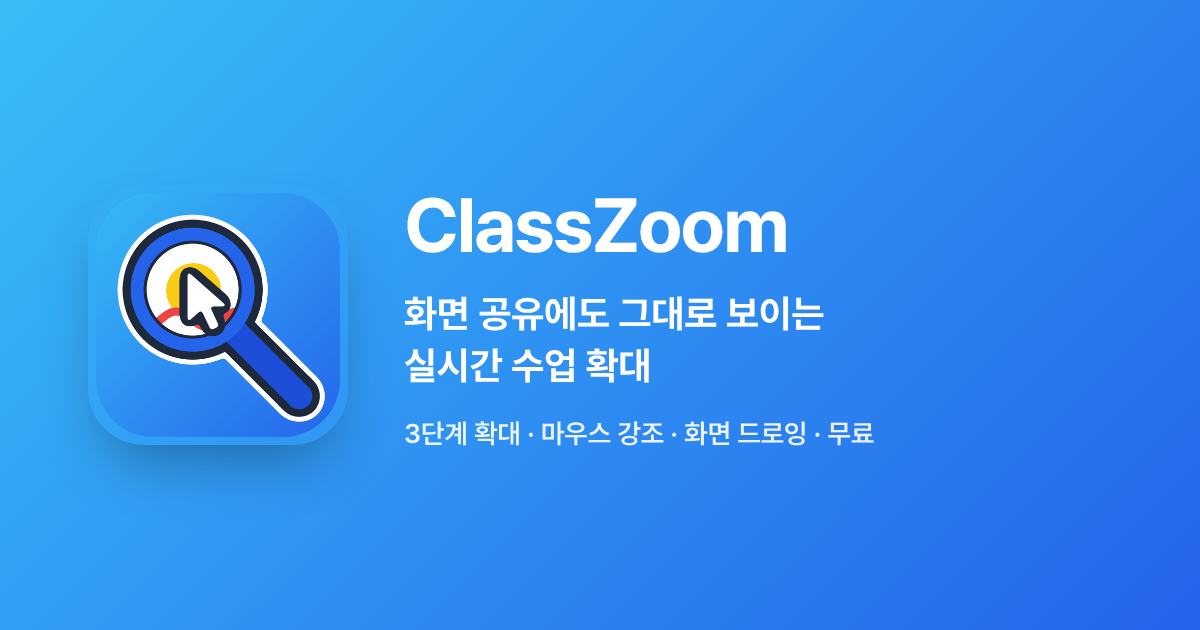
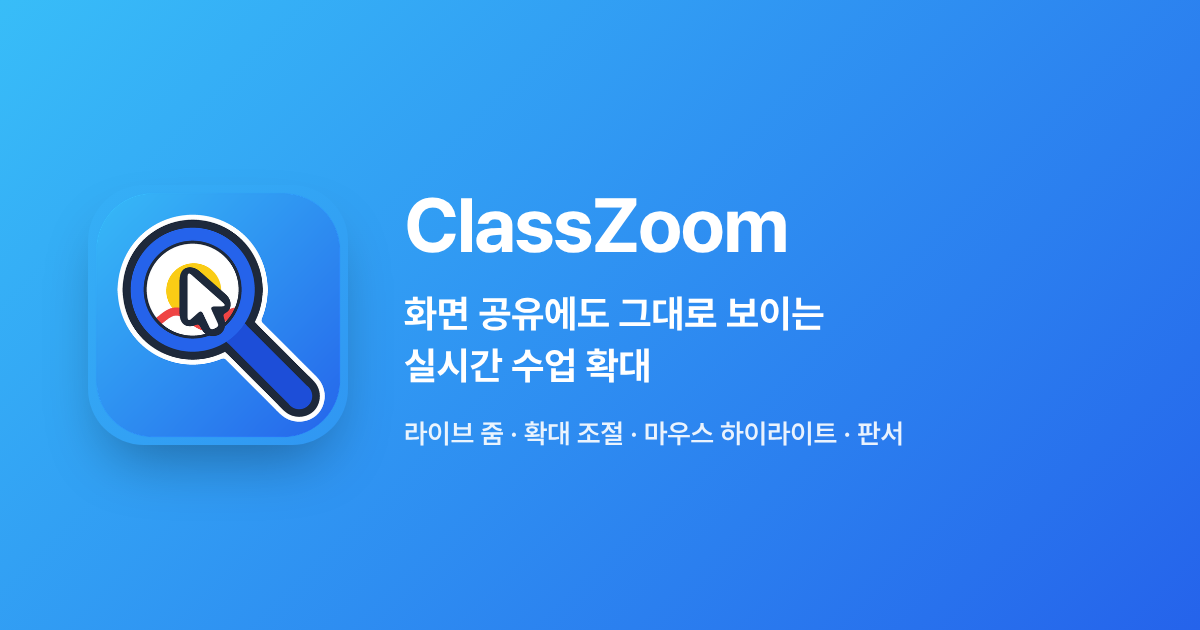
Refresh landing page copy around classroom, lecture and recording use
Present the features as live zoom, zoom level control, mouse highlight
and 판서, add a use-case section, polish the Korean copy and record
the copy rules in CLAUDE.md.

Claude-Session: https://claude.ai/code/session_01A7oqvKdSjdYe6hdTFPD8rC

Changed region(s): [[0.3392, 0.6635, 0.7708, 0.7238]]

diff --git a/site/index.html b/site/index.html
@@ -4,13 +4,13 @@
 <meta charset="utf-8">
 <meta name="viewport" content="width=device-width, initial-scale=1">
 <title>ClassZoom — 화면 공유에도 그대로 보이는 실시간 수업 확대</title>
-<meta name="description" content="수업용 실시간 화면 확대 · 마우스 강조 · 화면 드로잉. Zoom·Google Meet 공유와 녹화에도 확대 화면이 그대로, 커서는 하나만. Windows용 무료 프로그램.">
+<meta name="description" content="전자칠판 수업, 강의, 화면 녹화에 쓰는 라이브 줌 도구. 화면 확대 조절, 마우스 하이라이트, 판서까지 위젯 하나로. Windows용 무료 프로그램.">
 <meta name="theme-color" content="#2563EB">
 <link rel="icon" type="image/png" sizes="32x32" href="/assets/favicon-32.png">
 <link rel="apple-touch-icon" href="/assets/apple-touch-icon.png">
 <meta property="og:type" content="website">
 <meta property="og:title" content="ClassZoom — 화면 공유에도 그대로 보이는 실시간 수업 확대">
-<meta property="og:description" content="실시간 3단계 확대 · 마우스 강조 · 화면 드로잉. 공유와 녹화에도 커서는 하나만. Windows용 무료.">
+<meta property="og:description" content="전자칠판 수업, 강의, 화면 녹화에 쓰는 라이브 줌 · 화면 확대 조절 · 마우스 하이라이트 · 판서. Windows용 무료.">
 <meta property="og:image" content="/assets/og.png">
 <meta name="twitter:card" content="summary_large_image">
 <link rel="preconnect" href="https://cdn.jsdelivr.net" crossorigin>
@@ -103,18 +103,13 @@
   }
   @media (max-width: 560px) { .cta .btn { width: 100%; justify-content: center; } }
 
-  /* ---------- 문제 / 해결 ---------- */
-  .compare { display: grid; grid-template-columns: 1fr 1fr; gap: 24px; margin-top: 40px; }
-  .card { border: 1px solid var(--line); border-radius: var(--radius); padding: 28px; background: #fff; }
-  .card h3 { font-size: 20px; margin-bottom: 12px; display: flex; align-items: center; gap: 8px; }
-  .card ul { list-style: none; display: grid; gap: 10px; color: var(--ink-2); }
-  .card li { padding-left: 26px; position: relative; }
-  .bad li::before { content: "✕"; position: absolute; left: 0; color: var(--red); font-weight: 800; }
-  .good { border-color: #93C5FD; background: var(--sky-l); }
-  .good li::before { content: "✓"; position: absolute; left: 0; color: var(--blue); font-weight: 800; }
-  .tag { font-size: 13px; padding: 3px 10px; border-radius: 999px; background: #FEE2E2; color: #B91C1C; }
-  .good .tag { background: #DBEAFE; color: var(--blue-d); }
-  @media (max-width: 760px) { .compare { grid-template-columns: 1fr; } }
+  /* ---------- 이럴 때 씁니다 ---------- */
+  .uses { display: grid; grid-template-columns: repeat(3, 1fr); gap: 20px; margin-top: 40px; }
+  .use { border: 1px solid var(--line); border-radius: var(--radius); padding: 28px 26px; background: linear-gradient(180deg, var(--sky-l), #fff 60%); }
+  .use .num { display: inline-block; font-weight: 800; color: var(--blue); font-size: 15px; letter-spacing: .04em; }
+  .use h3 { font-size: 21px; margin: 8px 0 10px; }
+  .use p { color: var(--ink-2); }
+  @media (max-width: 860px) { .uses { grid-template-columns: 1fr; } }
 
   /* ---------- 기능 ---------- */
   .features { background: var(--bg); }
@@ -193,7 +188,7 @@
       <div>
         <p class="eyebrow">수업용 실시간 화면 확대 도구</p>
         <h1>화면 공유에도 <em>그대로 보이는</em><br>실시간 확대</h1>
-        <p class="sub">F7 한 번이면 지금 화면이 크게. 영상도 그대로 움직이고, Zoom·Google Meet 공유와 녹화에도 확대 화면이 보이며 <b>커서는 하나만</b> 나옵니다.</p>
+        <p class="sub">F7을 누르면 지금 보는 화면이 바로 커집니다. 영상도 멈추지 않고 움직입니다. Zoom·Google Meet로 공유하거나 녹화할 때도 확대한 화면이 그대로 담깁니다.</p>
         <div class="cta">
           <a class="btn btn-primary js-download" href="https://github.com/codersongpro/mouse/releases/latest">
             <svg viewBox="0 0 24 24" fill="none" stroke="currentColor" stroke-width="2.4" stroke-linecap="round" stroke-linejoin="round" aria-hidden="true"><path d="M12 3v12m0 0l-5-5m5 5l5-5M4 20h16"/></svg>
@@ -203,10 +198,12 @@
         </div>
         <p class="meta"><span class="js-version">최신 버전</span> · Windows 10 / 11 · 설치 없이 바로 실행</p>
         <div class="chips">
-          <span class="chip"><b>3단계</b> 실시간 확대</span>
-          <span class="chip">마우스 강조</span>
-          <span class="chip">화면 드로잉</span>
-          <span class="chip">전자칠판 터치</span>
+          <span class="chip"><b>라이브 줌</b></span>
+          <span class="chip">화면 확대 조절</span>
+          <span class="chip">마우스 하이라이트</span>
+          <span class="chip">판서</span>
+          <span class="chip">전자칠판 수업</span>
+          <span class="chip">강의 · 화면 녹화</span>
         </div>
       </div>
 
@@ -242,31 +239,27 @@
     </div>
   </section>
 
-  <!-- 문제 / 해결 -->
+  <!-- 이럴 때 씁니다 -->
   <section>
     <div class="wrap">
-      <p class="eyebrow">왜 ClassZoom인가요</p>
-      <h2>확대해서 녹화했더니<br>마우스가 두 개로 보인 적 있나요?</h2>
-      <p class="lead">일반 확대 도구는 화면 전체를 시스템에서 키우기 때문에, 녹화·공유 프로그램이 확대된 커서와 실제 커서를 함께 찍습니다. ClassZoom은 확대 화면을 하나의 창으로 그려서 이 문제가 없습니다.</p>
-      <div class="compare">
-        <div class="card bad">
-          <h3>일반 확대 도구 <span class="tag">기존</span></h3>
-          <ul>
-            <li>녹화·공유 화면에 커서가 두 개</li>
-            <li>캡처한 정지 화면이라 영상이 멈춤</li>
-            <li>확대하면 공유 화면에는 안 보이는 경우</li>
-            <li>확대·드로잉·강조 도구를 따로 실행</li>
-          </ul>
-        </div>
-        <div class="card good">
-          <h3>ClassZoom <span class="tag">해결</span></h3>
-          <ul>
-            <li>녹화·공유에도 커서는 하나만</li>
-            <li>실시간 확대 — 영상·애니메이션도 그대로</li>
-            <li>Zoom·Meet 화면 공유에 확대 화면이 그대로</li>
-            <li>확대·드로잉·강조를 위젯 하나로</li>
-          </ul>
-        </div>
+      <p class="eyebrow">이럴 때 씁니다</p>
+      <h2>교실에서도, 온라인에서도,<br>녹화할 때도</h2>
+      <div class="uses">
+        <article class="use">
+          <span class="num">01</span>
+          <h3>전자칠판으로 수업할 때</h3>
+          <p>교과서 그림이나 작은 글씨를 뒷자리까지 보이게 키우고 손가락이나 터치펜으로 그 위에 바로 씁니다. 칠판 제조사와 상관없이 PC에서 똑같이 동작합니다.</p>
+        </article>
+        <article class="use">
+          <span class="num">02</span>
+          <h3>강의할 때</h3>
+          <p>Zoom·Google Meet로 화면을 공유하는 중에 확대하면 참여자도 확대한 화면을 봅니다. 설명하는 곳은 마우스 하이라이트로 짚어 줍니다.</p>
+        </article>
+        <article class="use">
+          <span class="num">03</span>
+          <h3>화면을 녹화할 때</h3>
+          <p>확대한 장면이 녹화 영상에 담기니 나중에 편집으로 키울 필요가 없습니다. 영상 강의나 사용법 안내 영상을 만들 때 편합니다.</p>
+        </article>
       </div>
     </div>
   </section>
@@ -279,27 +272,27 @@
       <div class="grid4">
         <article class="feat">
           <div class="ico"><img src="/assets/zoom.png" alt=""></div>
-          <h3>실시간 3단계 확대</h3>
+          <h3>라이브 줌</h3>
           <div class="key"><kbd>F7</kbd></div>
-          <p>누를 때마다 150% → 200% → 300% → 끄기. 화면은 고정되고 커서만 움직여 흔들림이 없습니다.</p>
-        </article>
-        <article class="feat">
-          <div class="ico"><img src="/assets/spotlight.png" alt=""></div>
-          <h3>마우스 강조</h3>
-          <div class="key"><kbd>F8</kbd></div>
-          <p>커서 주위를 노란 원으로 강조하고, 클릭하면 원이 오므라들어 학생 눈이 따라옵니다.</p>
-        </article>
-        <article class="feat">
-          <div class="ico"><img src="/assets/draw.png" alt=""></div>
-          <h3>화면 드로잉</h3>
-          <div class="key"><kbd>F9</kbd></div>
-          <p>자유선·사각형·원·화살표·레이저 펜. 확대한 화면 위에도 그대로 그립니다.</p>
+          <p>지금 보는 화면을 실시간으로 확대합니다. 영상도 멈추지 않으며 확대한 화면은 고정된 채 커서만 움직여서 흔들리지 않습니다.</p>
         </article>
         <article class="feat">
           <div class="ico"><img src="/assets/settings.png" alt=""></div>
-          <h3>내 수업에 맞게</h3>
-          <div class="key"><kbd>설정</kbd></div>
-          <p>단계별 배율, 펜 색과 굵기, 칠판 색, 단축키를 바꿀 수 있습니다. 전자칠판 터치도 됩니다.</p>
+          <h3>화면 확대 조절</h3>
+          <div class="key"><kbd>F7</kbd> <kbd>Ctrl</kbd> + 휠</div>
+          <p>누를 때마다 150% → 200% → 300% 세 단계로 커지고 휠로 단계를 오르내립니다. 단계별 배율은 설정에서 고릅니다.</p>
+        </article>
+        <article class="feat">
+          <div class="ico"><img src="/assets/spotlight.png" alt=""></div>
+          <h3>마우스 하이라이트</h3>
+          <div class="key"><kbd>F8</kbd></div>
+          <p>커서 주위를 노란 원으로 밝히고 클릭하면 원이 오므라들어서 학생들의 눈이 따라옵니다.</p>
+        </article>
+        <article class="feat">
+          <div class="ico"><img src="/assets/draw.png" alt=""></div>
+          <h3>판서</h3>
+          <div class="key"><kbd>F9</kbd></div>
+          <p>자유선·사각형·원·화살표·레이저 펜으로 화면 위에 씁니다. 확대한 화면 위에도 판서할 수 있고 전자칠판 터치도 됩니다.</p>
         </article>
       </div>
     </div>
@@ -310,16 +303,16 @@
     <div class="wrap">
       <p class="eyebrow">단축키</p>
       <h2>외울 건 세 개면 충분합니다</h2>
-      <p class="lead">처음 실행하면 사용 방법 창이 떠서 알려 드립니다. 키는 설정에서 바꿀 수 있습니다.</p>
+      <p class="lead">처음 실행하면 사용 방법 창이 떠서 알려 드립니다. 키는 설정에서 바꿔 쓰면 됩니다.</p>
       <div class="keys">
-        <div class="row"><div><kbd>F7</kbd></div><div class="desc">화면 확대 — 1단계 → 2단계 → 3단계 → 끄기</div></div>
-        <div class="row"><div><kbd>Ctrl</kbd> + 마우스 휠</div><div class="desc">확대 중 단계 올리기 · 내리기</div></div>
-        <div class="row"><div><kbd>Esc</kbd></div><div class="desc">확대 끄기 (그리는 중이면 지우고 그리기 끄기)</div></div>
-        <div class="row"><div><kbd>F8</kbd></div><div class="desc">마우스 강조 켜기 · 끄기</div></div>
-        <div class="row"><div><kbd>F9</kbd></div><div class="desc">화면에 그리기 켜기 · 끄기</div></div>
-        <div class="row"><div><kbd>Shift</kbd> / <kbd>Ctrl</kbd> + 드래그</div><div class="desc">사각형 / 원 그리기</div></div>
+        <div class="row"><div><kbd>F7</kbd></div><div class="desc">라이브 줌 (1단계 → 2단계 → 3단계 → 끄기)</div></div>
+        <div class="row"><div><kbd>Ctrl</kbd> + 마우스 휠</div><div class="desc">화면 확대 단계 올리기 · 내리기</div></div>
+        <div class="row"><div><kbd>Esc</kbd></div><div class="desc">확대 끄기 (판서 중이면 지우고 판서 끄기)</div></div>
+        <div class="row"><div><kbd>F8</kbd></div><div class="desc">마우스 하이라이트 켜기 · 끄기</div></div>
+        <div class="row"><div><kbd>F9</kbd></div><div class="desc">판서 켜기 · 끄기</div></div>
+        <div class="row"><div><kbd>Shift</kbd> / <kbd>Ctrl</kbd> + 드래그</div><div class="desc">사각형 / 원</div></div>
         <div class="row"><div><kbd>1</kbd> ~ <kbd>9</kbd></div><div class="desc">펜 색 바꾸기</div></div>
-        <div class="row"><div><kbd>Ctrl</kbd> + <kbd>Z</kbd></div><div class="desc">방금 그린 것 되돌리기</div></div>
+        <div class="row"><div><kbd>Ctrl</kbd> + <kbd>Z</kbd></div><div class="desc">방금 쓴 판서 되돌리기</div></div>
       </div>
     </div>
   </section>
@@ -343,12 +336,12 @@
     <div class="wrap">
       <p class="eyebrow">자주 묻는 질문</p>
       <h2>궁금한 점</h2>
-      <details><summary>무료인가요?</summary><p>네, 무료입니다. MIT 라이선스로 배포하며 학교·개인 누구나 쓸 수 있습니다.</p></details>
+      <details><summary>무료인가요?</summary><p>네, 무료입니다. MIT 라이선스로 배포하고 학교에서도 개인도 자유롭게 씁니다.</p></details>
       <details><summary>따로 설치해야 하는 프로그램이 있나요?</summary><p>없습니다. 압축을 풀고 classzoom.exe만 실행하면 됩니다. 관리자 권한도 필요 없습니다.</p></details>
       <details><summary>Zoom이나 Google Meet에서 확대 화면이 안 보여요.</summary><p>공유할 때 특정 ‘창’이 아니라 <b>‘화면 전체’(모니터)</b>를 고르세요. 모니터가 두 대라면 공유 중인 모니터에서 확대를 켜면 됩니다.</p></details>
       <details><summary>맥(Mac)에서도 되나요?</summary><p>지금은 Windows 10 / 11 전용입니다.</p></details>
       <details><summary>개인정보를 수집하나요?</summary><p>수집하지 않습니다. 인터넷은 설정 창을 열 때 새 버전이 있는지 확인하는 데에만 씁니다(버전 파일 1개 읽기).</p></details>
-      <details><summary>넷플릭스 같은 영상이 확대 화면에서 검게 보여요.</summary><p>복사 방지(DRM)가 걸린 영상은 Windows가 확대를 막아 검게 보일 수 있습니다. 일반 영상·유튜브는 그대로 확대됩니다.</p></details>
+      <details><summary>넷플릭스 같은 영상이 확대 화면에서 검게 보여요.</summary><p>복사 방지(DRM)가 걸린 영상은 Windows가 확대를 막아 검게 보일 수 있습니다. 일반 영상과 유튜브는 문제없이 확대됩니다.</p></details>
     </div>
   </section>
 
@@ -356,7 +349,7 @@
   <section class="final">
     <div class="wrap">
       <h2>다음 수업부터 바로 써 보세요</h2>
-      <p class="lead">화면 공유 수업, 녹화 강의, 전자칠판 수업 어디서나.</p>
+      <p class="lead">전자칠판 수업, 강의, 화면 녹화 어디서나 씁니다.</p>
       <div class="cta">
         <a class="btn btn-primary js-download" href="https://github.com/codersongpro/mouse/releases/latest">
           <svg viewBox="0 0 24 24" fill="none" stroke="currentColor" stroke-width="2.4" stroke-linecap="round" stroke-linejoin="round" aria-hidden="true"><path d="M12 3v12m0 0l-5-5m5 5l5-5M4 20h16"/></svg>
@@ -380,7 +373,7 @@
     </div>
     <p class="legal">
       ClassZoom © 2026 송동석 (Songpro / Dustin). MIT 라이선스로 배포하는 무료 프로그램으로, 누구나 사용·복사·수정·배포할 수 있습니다.
-      다시 배포할 때는 저작권 표시와 LICENSE 파일을 함께 넣어 주세요. 프로그램은 있는 그대로 제공되며, 사용 중 생긴 문제에 대해 만든 사람은 책임지지 않습니다.
+      다시 배포할 때는 저작권 표시와 LICENSE 파일을 함께 넣어 주세요. 프로그램은 있는 그대로 제공되며 사용 중 생긴 문제에 대해 만든 사람은 책임지지 않습니다.
       개인정보를 수집하지 않습니다.
     </p>
   </div>

diff --git a/CLAUDE.md b/CLAUDE.md
@@ -1,0 +1,8 @@
+# ClassZoom — 작업 규칙
+
+## 랜딩페이지(`site/`) 문구
+- 랜딩페이지 문구를 새로 쓰거나 고칠 때는 **항상 `humanize-korean`(im-not-ai) 스킬로 문체를 점검**한다.
+  - 장르는 안내문, 합니다체. 연결어미 뒤 쉼표(C-11), "~할 수 있습니다" 반복(A-10), 대시 부가 설명(J-3), 같은 낱말 반복을 특히 본다.
+  - 고유명사·단축키·수치·만든 사람 슬로건("즐거움은 더하고, 불편함은 덜고.")은 고치지 않는다.
+- 기능 이름은 **라이브 줌 · 화면 확대 조절 · 마우스 하이라이트 · 판서**로 통일한다.
+- 쓰임새는 **전자칠판 수업 · 강의 · 화면 녹화**로 소개한다.
